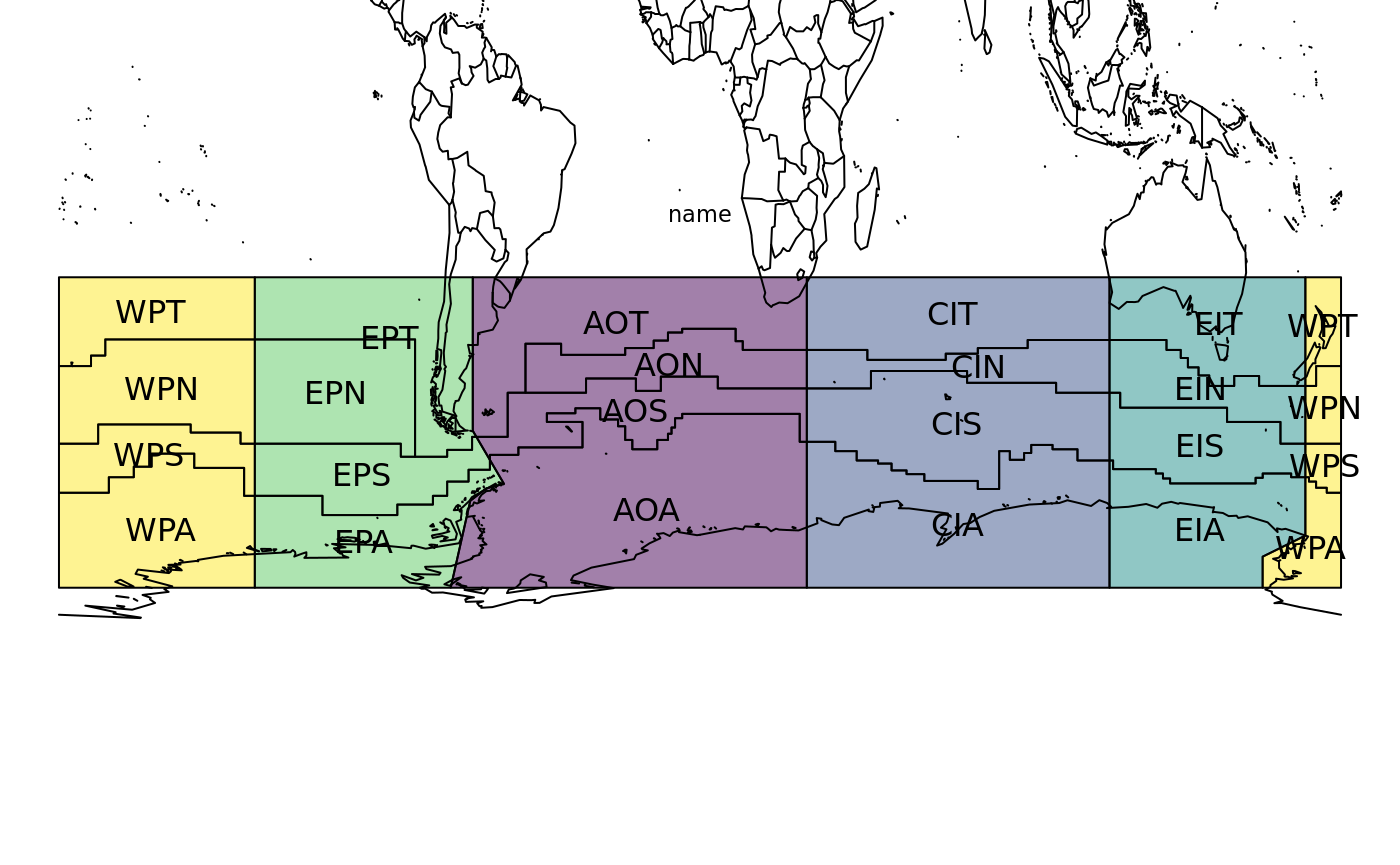
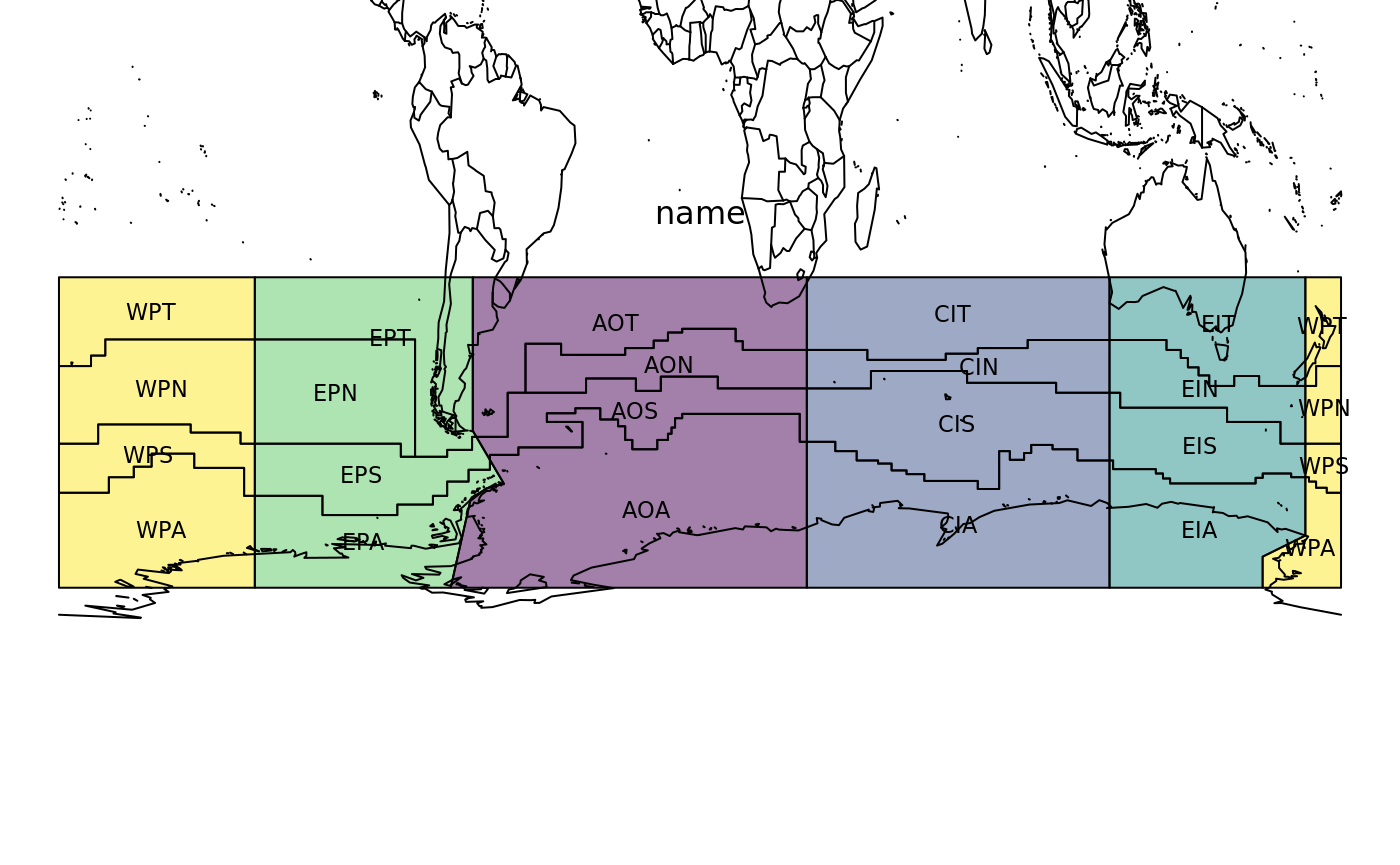
label sizes

diff --git a/docs/index.html b/docs/index.html
@@ -123,9 +123,9 @@
 <a class="sourceLine" id="cb4-5" data-line-number="5"><span class="co">#&gt; Warning in st_centroid.sfc(st_geometry(x), of_largest_polygon =</span></a>
 <a class="sourceLine" id="cb4-6" data-line-number="6"><span class="co">#&gt; of_largest_polygon): st_centroid does not give correct centroids for</span></a>
 <a class="sourceLine" id="cb4-7" data-line-number="7"><span class="co">#&gt; longitude/latitude data</span></a>
-<a class="sourceLine" id="cb4-8" data-line-number="8"><span class="kw"><a href="https://www.rdocumentation.org/packages/graphics/topics/text">text</a></span>(cds, <span class="dt">lab =</span> measo_names<span class="op">$</span>name)</a>
+<a class="sourceLine" id="cb4-8" data-line-number="8"><span class="kw"><a href="https://www.rdocumentation.org/packages/graphics/topics/text">text</a></span>(cds, <span class="dt">lab =</span> measo_names<span class="op">$</span>name, <span class="dt">cex =</span> <span class="fl">0.7</span>)</a>
 <a class="sourceLine" id="cb4-9" data-line-number="9"><span class="kw"><a href="https://www.rdocumentation.org/packages/graphics/topics/par">par</a></span>(<span class="dt">xpd =</span> <span class="ot">NA</span>)</a>
-<a class="sourceLine" id="cb4-10" data-line-number="10"><span class="kw"><a href="https://www.rdocumentation.org/packages/graphics/topics/text">text</a></span>(<span class="dv">0</span>, <span class="dv">-20</span>, <span class="st">"name"</span>, <span class="dt">cex =</span> <span class="fl">0.7</span>)</a>
+<a class="sourceLine" id="cb4-10" data-line-number="10"><span class="kw"><a href="https://www.rdocumentation.org/packages/graphics/topics/text">text</a></span>(<span class="dv">0</span>, <span class="dv">-20</span>, <span class="st">"name"</span>)</a>
 <a class="sourceLine" id="cb4-11" data-line-number="11">maps<span class="op">::</span><span class="kw"><a href="https://www.rdocumentation.org/packages/maps/topics/map">map</a></span>(<span class="dt">add =</span> <span class="ot">TRUE</span>)</a></code></pre></div>
 <p><img src="reference/figures/README-dummy-1.png" width="100%"></p>
 <div class="sourceCode" id="cb5"><pre class="sourceCode r"><code class="sourceCode r"><a class="sourceLine" id="cb5-1" data-line-number="1"><span class="kw"><a href="https://www.rdocumentation.org/packages/graphics/topics/par">par</a></span>(<span class="dt">xpd =</span> <span class="ot">TRUE</span>)</a>
@@ -136,9 +136,9 @@
 <a class="sourceLine" id="cb5-6" data-line-number="6"><span class="co">#&gt; Warning in st_centroid.sfc(st_geometry(x), of_largest_polygon =</span></a>
 <a class="sourceLine" id="cb5-7" data-line-number="7"><span class="co">#&gt; of_largest_polygon): st_centroid does not give correct centroids for</span></a>
 <a class="sourceLine" id="cb5-8" data-line-number="8"><span class="co">#&gt; longitude/latitude data</span></a>
-<a class="sourceLine" id="cb5-9" data-line-number="9"><span class="kw"><a href="https://www.rdocumentation.org/packages/graphics/topics/text">text</a></span>(cds, <span class="dt">lab =</span> measo_names<span class="op">$</span>zone)</a>
+<a class="sourceLine" id="cb5-9" data-line-number="9"><span class="kw"><a href="https://www.rdocumentation.org/packages/graphics/topics/text">text</a></span>(cds, <span class="dt">lab =</span> measo_names<span class="op">$</span>zone, <span class="dt">cex =</span> <span class="fl">0.7</span>)</a>
 <a class="sourceLine" id="cb5-10" data-line-number="10"><span class="kw"><a href="https://www.rdocumentation.org/packages/graphics/topics/par">par</a></span>(<span class="dt">xpd =</span> <span class="ot">NA</span>)</a>
-<a class="sourceLine" id="cb5-11" data-line-number="11"><span class="kw"><a href="https://www.rdocumentation.org/packages/graphics/topics/text">text</a></span>(<span class="dv">0</span>, <span class="dv">-20</span>, <span class="st">"zone"</span>, <span class="dt">cex =</span> <span class="fl">0.7</span>)</a>
+<a class="sourceLine" id="cb5-11" data-line-number="11"><span class="kw"><a href="https://www.rdocumentation.org/packages/graphics/topics/text">text</a></span>(<span class="dv">0</span>, <span class="dv">-20</span>, <span class="st">"zone"</span>)</a>
 <a class="sourceLine" id="cb5-12" data-line-number="12">maps<span class="op">::</span><span class="kw"><a href="https://www.rdocumentation.org/packages/maps/topics/map">map</a></span>(<span class="dt">add =</span> <span class="ot">TRUE</span>)</a></code></pre></div>
 <p><img src="reference/figures/README-dummy-2.png" width="100%"></p>
 <div class="sourceCode" id="cb6"><pre class="sourceCode r"><code class="sourceCode r"><a class="sourceLine" id="cb6-1" data-line-number="1"><span class="kw"><a href="https://www.rdocumentation.org/packages/graphics/topics/par">par</a></span>(<span class="dt">xpd =</span> <span class="ot">TRUE</span>)</a>
@@ -150,9 +150,9 @@
 <a class="sourceLine" id="cb6-7" data-line-number="7"><span class="co">#&gt; Warning in st_centroid.sfc(st_geometry(x), of_largest_polygon =</span></a>
 <a class="sourceLine" id="cb6-8" data-line-number="8"><span class="co">#&gt; of_largest_polygon): st_centroid does not give correct centroids for</span></a>
 <a class="sourceLine" id="cb6-9" data-line-number="9"><span class="co">#&gt; longitude/latitude data</span></a>
-<a class="sourceLine" id="cb6-10" data-line-number="10"><span class="kw"><a href="https://www.rdocumentation.org/packages/graphics/topics/text">text</a></span>(cds, <span class="dt">lab =</span> measo_names<span class="op">$</span>sector)</a>
+<a class="sourceLine" id="cb6-10" data-line-number="10"><span class="kw"><a href="https://www.rdocumentation.org/packages/graphics/topics/text">text</a></span>(cds, <span class="dt">lab =</span> measo_names<span class="op">$</span>sector, <span class="dt">cex =</span> <span class="fl">0.7</span>)</a>
 <a class="sourceLine" id="cb6-11" data-line-number="11"><span class="kw"><a href="https://www.rdocumentation.org/packages/graphics/topics/par">par</a></span>(<span class="dt">xpd =</span> <span class="ot">NA</span>)</a>
-<a class="sourceLine" id="cb6-12" data-line-number="12"><span class="kw"><a href="https://www.rdocumentation.org/packages/graphics/topics/text">text</a></span>(<span class="dv">0</span>, <span class="dv">-20</span>, <span class="st">"sector"</span>, <span class="dt">cex =</span> <span class="fl">0.7</span>)</a>
+<a class="sourceLine" id="cb6-12" data-line-number="12"><span class="kw"><a href="https://www.rdocumentation.org/packages/graphics/topics/text">text</a></span>(<span class="dv">0</span>, <span class="dv">-20</span>, <span class="st">"sector"</span>)</a>
 <a class="sourceLine" id="cb6-13" data-line-number="13">maps<span class="op">::</span><span class="kw"><a href="https://www.rdocumentation.org/packages/maps/topics/map">map</a></span>(<span class="dt">add =</span> <span class="ot">TRUE</span>)</a></code></pre></div>
 <p><img src="reference/figures/README-dummy-3.png" width="100%"></p>
 <div class="sourceCode" id="cb7"><pre class="sourceCode r"><code class="sourceCode r"><a class="sourceLine" id="cb7-1" data-line-number="1"><span class="kw"><a href="https://www.rdocumentation.org/packages/graphics/topics/par">par</a></span>(<span class="dt">xpd =</span> <span class="ot">TRUE</span>)</a></code></pre></div>
